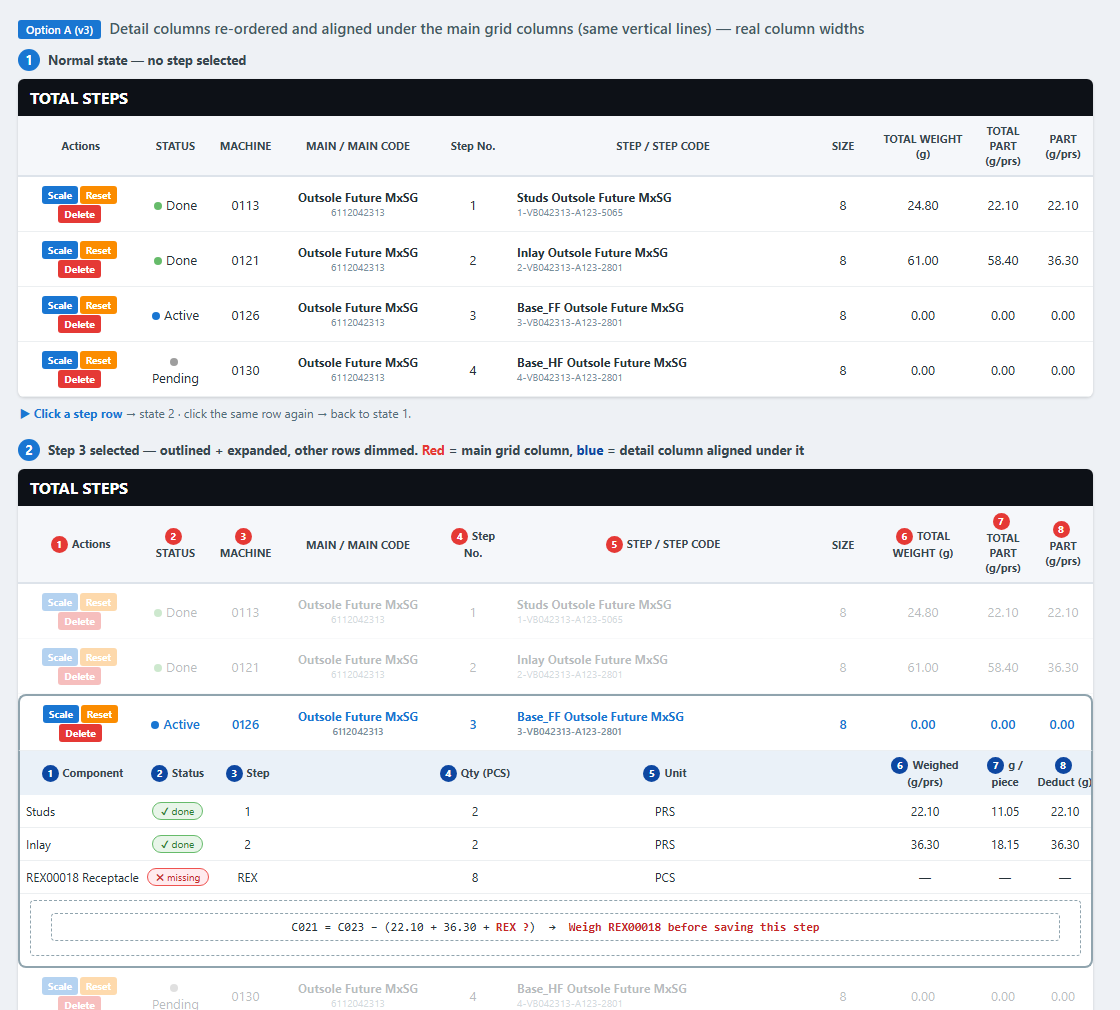
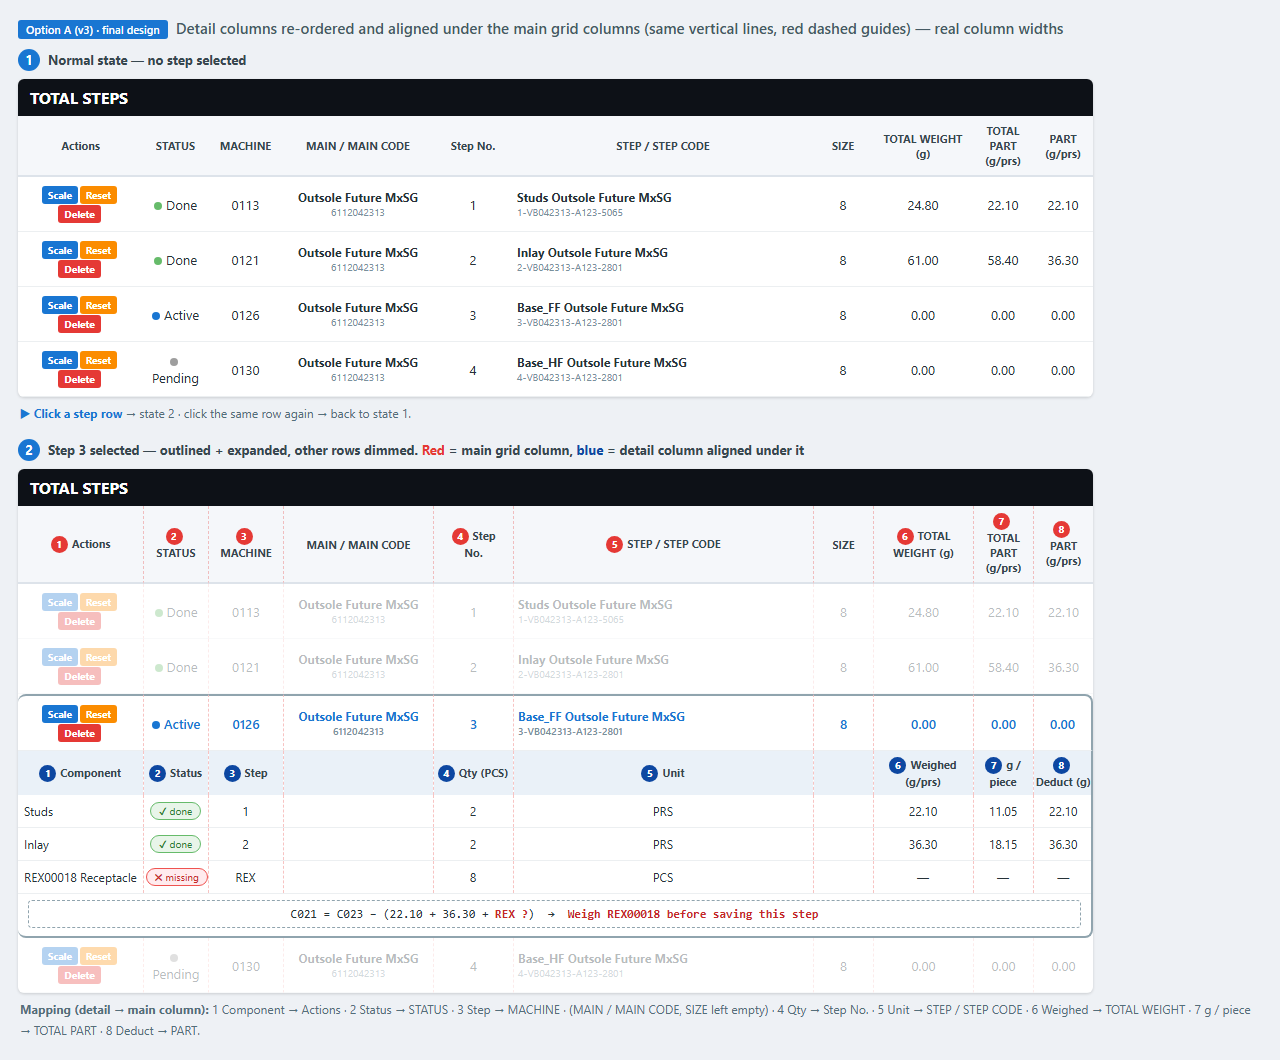
docs: BOM level 2 row details UI design doc and final aligned mockup

diff --git a/SSSW/docs/plan/BOM_LEVEL2_ROW_DETAILS_UI.md b/SSSW/docs/plan/BOM_LEVEL2_ROW_DETAILS_UI.md
@@ -1,0 +1,98 @@
+# Thiết kế UI: BOM Level 2 Row Details trong TOTAL STEPS
+
+- **Ngày**: 2026-11-04 · **Nhánh**: `feature/use-bom-level-2`
+- **Trạng thái**: ✅ Đã code · ⏳ chờ review trên app thật
+- **Liên quan**: [`brainstorm/BOM_LEVEL2_UI_OPTIONS.md`](../brainstorm/BOM_LEVEL2_UI_OPTIONS.md) (các phương án), [`tech/BUSINESS_LOGIC.md`](../tech/BUSINESS_LOGIC.md) §4.8 (công thức `C021`), session [`2026-11-04`](../sessions/2026-11-04_status-column-align-bom-l2-ui-options.md)
+
+## 1. Yêu cầu
+
+1. Chọn phương án A (mở rộng dòng), thiết kế lại: chọn step nào thì **highlight** và **làm mờ** các dòng còn lại; **bỏ** tiêu đề "BOM LEVEL 2…"; click dòng lần nữa thì về bình thường.
+2. Bỏ dòng *self* trong bảng chi tiết.
+3. Chuyển toàn bộ cột và mô tả sang tiếng Anh.
+4. **Sắp lại thứ tự cột chi tiết (số xanh) và căn cùng đường dọc với cột lưới chính (số đỏ).**
+
+## 2. Hình thiết kế
+
+![Option A v3](../image/bom_level2_option_A_v3_aligned.png)
+
+Đường gióng đỏ nét đứt = ranh giới cột lưới chính; cột chi tiết nằm trọn trong các ranh giới đó.
+
+## 3. Ánh xạ cột chi tiết → cột lưới chính
+
+| # | Cột chi tiết | Cột lưới chính (index trong `dgTotalSteps`) | Rộng (px) | Nguồn dữ liệu |
+|---|--------------|---------------------------------------------|-----------|---------------|
+| 1 | Component | Actions (0) | 125 | `ItemStepName` của BOM L2 |
+| 2 | Status | STATUS (1) | 65 | đã cân / chưa cân |
+| 3 | Step | MACHINE (2) | 75 | `C015` của chi tiết con, `REX` nếu non-injection |
+| — | *(trống)* | MAIN / MAIN CODE (3) | 150 | — |
+| 4 | Qty (PCS) | Step No. (4) | 80 | `Quantity` BOM L2 |
+| 5 | Unit | STEP / STEP CODE (5) | 300 | `Unit` BOM L2 |
+| — | *(trống)* | SIZE (6) | 60 | — |
+| 6 | Weighed (g/prs) | TOTAL WEIGHT (7) | 100 | `C021` đã cân |
+| 7 | g / piece | TOTAL PART (8) | 60 | `UnitWeightPerPiece` |
+| 8 | Deduct (g) | PART (9) | 60 | `Qty × g/piece` |
+
+## 4. Tính khả thi
+
+**Khả thi — đã triển khai.** Lý do và điểm cần lưu ý:
+
+| Vấn đề | Giải pháp | Ghi chú |
+|--------|-----------|---------|
+| Cột chi tiết phải thẳng hàng với cột lưới | Mỗi ô là `Border` có `Width` bind `Columns[i].ActualWidth` của `DataGrid` (`RelativeSource AncestorType=DataGrid`) | Kéo đổi độ rộng cột vẫn thẳng hàng. Không dùng `ColumnDefinition` vì `RelativeSource` không hoạt động ở đó |
+| Lưới thật có thêm cột so với mockup cũ | Vị trí MAIN / MAIN CODE và SIZE để trống | Nếu thêm/bớt/đổi thứ tự cột lưới thì phải sửa chỉ số trong `Level2DetailsTemplate` |
+| Cột Component hẹp (125px) | Cắt chữ + tooltip hiện mã chi tiết | Có thể nới cột Actions nếu cần |
+| Chip Status trong 65px | Chữ ngắn "✔ done" / "✖ missing" | Có thể nới nhẹ cột STATUS |
+| `FT600` không có `INotifyPropertyChanged` | `RefreshStepsGridCore()` dựng lại lưới, kèm dựng lại `Level2Items` | Selection bị reset mỗi lần dựng lại → `FocusGridRowAction` chọn lại step đang cân |
+| Mờ dòng / bỏ chọn khi click lại | Code-behind thuần hiển thị (`ShotWeightWindow.xaml.cs`) | Đúng quy ước: code-behind chỉ làm việc không bind được |
+
+## 5. Hành vi tương tác
+
+```mermaid
+stateDiagram-v2
+    [*] --> Normal
+    Normal --> Selected : click một dòng step
+    Selected --> Normal : click lại chính dòng đó
+    Selected --> Selected : click dòng step khác (chuyển highlight)
+    Selected --> Selected : click nút Scale/Reset/Delete hoặc vùng chi tiết (giữ nguyên)
+    Selected --> Selected : Save/Reset → lưới dựng lại, step đang cân được chọn lại
+    note right of Selected
+        Dòng chọn: viền nổi + xổ chi tiết
+        Dòng khác: opacity 0.35
+    end note
+```
+
+## 6. Luồng dữ liệu
+
+```mermaid
+flowchart LR
+    BOM["IBomService<br/>Level 2 (cache)"] --> VM
+    REPO["IScaleStepRepository<br/>FT600 đã lưu"] --> VM
+    SESSION["_scaleDataFinal<br/>dòng đang cân"] --> VM
+    VM["ShotWeightViewModel<br/>RefreshLevel2Details()"] -->|Level2Items, Level2Formula,<br/>Level2HasMissing| FT600["FT600 (NotMapped)"]
+    FT600 --> TPL["Level2DetailsTemplate<br/>(RowDetailsTemplate)"]
+    TPL --> GRID["dgTotalSteps"]
+    GRID -->|SelectionChanged / click| CB["Code-behind<br/>mờ dòng, bỏ chọn"]
+```
+
+## 7. File đã thay đổi
+
+| File | Nội dung |
+|------|----------|
+| [`models/Level2DetailItem.cs`](../../models/Level2DetailItem.cs) | DTO một dòng chi tiết |
+| [`models/ef/entities/FT600.partial.cs`](../../models/ef/entities/FT600.partial.cs) | `Level2Items`, `Level2Formula`, `Level2HasMissing` (`[NotMapped]`) |
+| [`UI/WPF/ViewModels/ShotWeightViewModel.cs`](../../UI/WPF/ViewModels/ShotWeightViewModel.cs) | `RefreshLevel2Details()` |
+| [`UI/WPF/Styles/ShotWeightStyles.xaml`](../../UI/WPF/Styles/ShotWeightStyles.xaml) | `StepRowStyle`, `Level2DetailsTemplate`, `NullToCollapsed` |
+| [`UI/WPF/Converters/ScaleConverters.cs`](../../UI/WPF/Converters/ScaleConverters.cs) | `NullToCollapsedConverter` |
+| [`UI/WPF/ShotWeightWindow.xaml`](../../UI/WPF/ShotWeightWindow.xaml) | thuộc tính `dgTotalSteps` (RowDetails, RowStyle, sự kiện chuột) |
+| [`UI/WPF/ShotWeightWindow.xaml.cs`](../../UI/WPF/ShotWeightWindow.xaml.cs) | mờ dòng, click lại để bỏ chọn |
+
+## 8. Checklist review trên app thật
+
+- [ ] Cột chi tiết (Component → Deduct) thẳng hàng với cột lưới chính, kể cả sau khi kéo đổi độ rộng cột.
+- [ ] Cuộn ngang lưới: phần chi tiết cuộn cùng lưới, không lệch.
+- [ ] Chọn step → viền nổi, chi tiết xổ ra, dòng khác mờ; click lại → về bình thường.
+- [ ] Nút Scale/Reset/Delete ở dòng mờ vẫn bấm được.
+- [ ] Sau Save/Reset, step đang cân được chọn lại và trạng thái chi tiết (✔/✖, công thức) cập nhật.
+- [ ] Step không có chi tiết con (Logo, Studs đầu chuỗi) hiện "No components".
+- [ ] Màu viền dòng được chọn, tên Component dài, chip "✖ missing" trong cột 65px có chấp nhận được.
+- [ ] Cột STATUS (đã căn lại 2026-11-04) thẳng hàng với MACHINE / Step No.

diff --git a/SSSW/docs/sessions/2026-11-04_status-column-align-bom-l2-ui-options.md b/SSSW/docs/sessions/2026-11-04_status-column-align-bom-l2-ui-options.md
@@ -18,6 +18,8 @@
 - Code: `models/Level2DetailItem.cs` (mới); `FT600.partial.cs` (+`Level2Items`, `Level2Formula`, `Level2HasMissing`); `ShotWeightViewModel.RefreshLevel2Details()` gọi trong `RefreshStepsGridCore`; `ShotWeightStyles.xaml` (`StepRowStyle`, `Level2DetailsTemplate`, converter `NullToCollapsed`); `ScaleConverters.cs` (`NullToCollapsedConverter`); `ShotWeightWindow.xaml` (+ thuộc tính `dgTotalSteps`); `ShotWeightWindow.xaml.cs` (làm mờ dòng, click lại để bỏ chọn).
 - Hành vi: chọn step → viền nổi + xổ chi tiết, dòng khác mờ; click lại → bỏ chọn; sau Save/Reset lưới được dựng lại và step đang cân tự được chọn lại (xổ chi tiết cập nhật trạng thái cân).
 
+- Tài liệu thiết kế riêng: [`plan/BOM_LEVEL2_ROW_DETAILS_UI.md`](../plan/BOM_LEVEL2_ROW_DETAILS_UI.md) (ảnh thiết kế, bảng map cột, khả thi, mermaid, checklist review).
+
 ## Việc còn mở
 - Người dùng chọn phương án A; đã vẽ bản thiết kế lại `docs/image/bom_level2_option_A_v2_highlight.png` (highlight + mờ dòng khác, click lại để bỏ chọn, bỏ tiêu đề). Đã bỏ dòng self trong bảng chi tiết theo phản hồi (giữ hàng tiêu đề cột). Mockup v2 đã chuyển toàn bộ cột và phần mô tả sang tiếng Anh. **Chờ duyệt** rồi mới code.
 - Chưa chạy app để xác nhận bằng mắt: căn lề cột STATUS và Row Details (cột chi tiết thẳng hàng, mờ dòng, click lại bỏ chọn). Build `SSSW.csproj` 0 error (build ra thư mục tạm vì `SSSW.exe` đang chạy).
